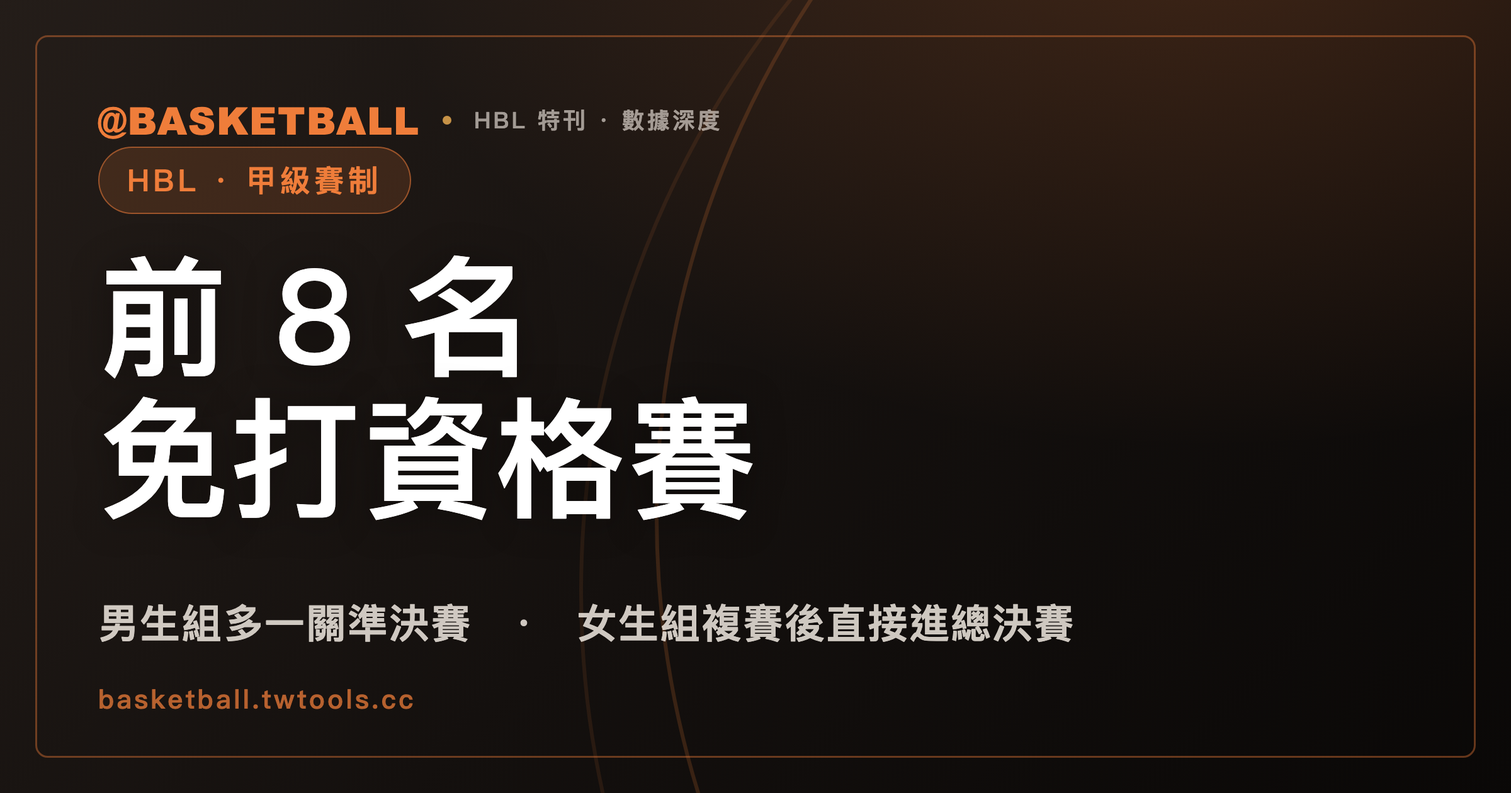
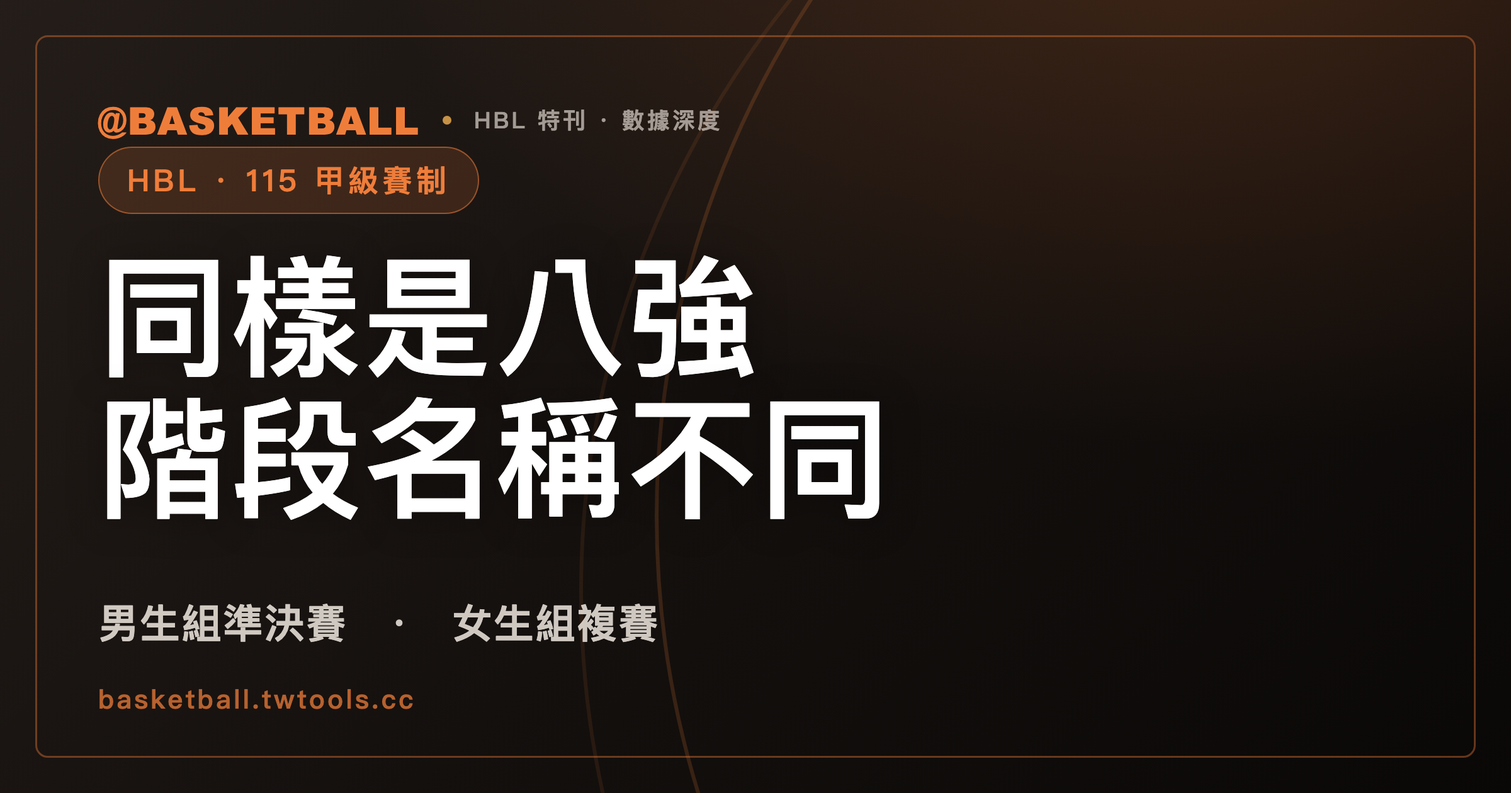
改寫 HBL 首批三篇：115 資格賽與男女晉級路徑 (#104)

Changed region(s): [[0.0625, 0.3095, 0.5938, 0.65], [0.125, 0.7429, 0.7188, 0.8048], [0.1562, 0.1857, 0.3438, 0.2786]]

diff --git a/scripts/gen-basketball-cover.py b/scripts/gen-basketball-cover.py
@@ -43,12 +43,12 @@ COVERS = [
     ("taiwan-hoops-two-leagues", "台灣職籃 · 並立格局",
      "為什麼有<br>兩個聯盟",
      "TPBL 7 隊 × PLG 4 隊　·　合併破局始末"),
-    ("hbl-league-guide", "HBL · 完全指南",
-     "高中籃球<br>完全指南",
-     "男 35 隊 · 女 15 隊　·　總決賽 3 月 13 日至 14 日"),
-    ("hbl-115-qualifier-schedule-guide", "HBL · 115 學年度賽程",
-     "資格賽<br>10 月 27 日開打",
-     "中原、健行開打　·　總決賽 3 月 13 日至 14 日小巨蛋"),
+    ("hbl-league-guide", "HBL · 115 學年度指南",
+     "資格賽在桃園<br>四強進小巨蛋",
+     "115 學年度　·　男、女生組晉級路徑不同"),
+    ("hbl-115-qualifier-schedule-guide", "HBL · 115 男生組資格賽",
+     "男生組第一<br>仍要闖關",
+     "男生組 27 隊爭 8 席　·　女生組取 4 隊晉級"),
     ("nba-2025-26-season-review", "2025-26 · 賽季回顧",
      "尼克<br>53 年再奪冠",
      "總冠軍賽 4:1 勝馬刺　·　東西區終局全紀錄"),
@@ -123,9 +123,9 @@ COVERS = [
     ("read-standings-basics", "NBA · 戰績表",
      "兩隊先比對戰<br>三隊先比冠軍",
      "同勝率才進比序　·　GB 不在清單裡"),
-    ("hbl-format-basics", "HBL · 甲級賽制",
-     "前 8 名<br>免打資格賽",
-     "男生組多一關準決賽　·　女生組複賽後直接進總決賽"),
+    ("hbl-format-basics", "HBL · 115 甲級賽制",
+     "同樣是八強<br>階段名稱不同",
+     "男生組準決賽　·　女生組複賽"),
     ("hbl-rules-vs-fiba", "HBL · 規則體系比較",
      "乙級打<br>8 分鐘制",
      "FIBA 10 分鐘、NBA 12 分鐘　·　依 ISF 規則調整"),

diff --git a/articles/hbl-115-qualifier-schedule-guide/index.md b/articles/hbl-115-qualifier-schedule-guide/index.md
@@ -4,130 +4,104 @@ competition: hbl
 topic: hbl
 type: "feature"
 date: "2026-10-13"
-title: "HBL 115 學年度行事曆預定：資格賽 10/27 起在中原、健行，八強跨農曆年，總決賽 3/13–14 小巨蛋"
-subtitle: "男 35 隊、女 15 隊報名都超過規程上限，兩組均設資格賽、由上學年度未達前 8 名者參加；依規程與 10 月 13 日報名名單推算，男 27 隊搶 8 席、女 7 隊搶 4 席。日期為官網行事曆預定，資格賽天數視報名後調整，籤表 10 月 13 日未公告。"
-lede: "依高中體總官網行事曆預定，HBL 115 學年度甲級資格賽 2026 年 10 月 27 日至 11 月 3 日在中原大學體育館與健行科技大學體育館舉行，實際比賽天數視報名後調整；男女兩組均設資格賽，由上學年度未達甲級前 8 名的隊伍參加，上學年度前 8 名直接進預賽。"
+title: "HBL 115 資格賽：男生組 27 隊搶 8 席，分組第一還沒過關"
+subtitle: "正式賽期女生組為 10 月 27 至 30 日，男生組為 27 至 31 日。男生組第一輪分組第一只是第二輪種子；女生組分組第一直接晉級預賽，另外兩席由交叉外卡決定。"
+lede: "115 學年度 HBL 男生組資格賽有 27 隊爭 8 席預賽資格，第一輪分組第一仍須通過第二輪；女生組則是 7 隊爭 4 席，第一輪兩組第一名直接晉級。正式秩序冊排定女生組 2026 年 10 月 30 日收官，男生組 31 日收官，不能把目前官方系統只列到的第一輪當成完整賽程。"
 topic_ref: "manual"
 ---
 
-# HBL 115 學年度行事曆預定：資格賽 10/27 起在中原、健行，八強跨農曆年，總決賽 3/13–14 小巨蛋
+# HBL 115 資格賽：男生組 27 隊搶 8 席，分組第一還沒過關
 
 **HBL・115 學年度｜資格賽・行事曆預定・晉級路徑**
 
-115 學年度 HBL 甲級男生組有 35 隊報名，規程把男生組的參賽隊數限在 16 隊；女生組報名 15 隊，上限是 12 隊。本文依據 115 學年度高級中等學校籃球聯賽競賽規程（運動部 2026 年 10 月 7 日備查）、中華民國高級中等學校體育總會（高中體總）官網行事曆，以及 hbl.com.tw 官方賽事系統的報名名單，後兩者都在 2026 年 10 月 13 日讀取。行事曆是官方預定，不是賽程表；日期與場地以高中體總後續公告為準。
+> 更新：2026 年 10 月 28 日（台北時間）。分組與日期依正式抽籤結果及 10 月 27 日版秩序冊，後續異動以高中體總公告為準。
 
-讀完之後，你可以判斷自己關心的學校依推算從資格賽還是預賽出發，也可以把行事曆預定的日期抄進自己的行事曆，等 10 月 15 日抽籤會議後回來對照。
+資格賽拿到分組第一，能不能收拾行李準備預賽？115 學年度 HBL 的答案要分男女生組：男生組第一仍要闖關，女生組第一已取得門票。
 
-## 男女兩組報名都超過規程上限，兩組均設資格賽
+兩組都先打分組循環，後面接的關卡卻不同。男生組要把 27 隊縮到 8 隊，女生組則從 7 隊選出 4 隊，完整分組如下。
 
-規程第 7 條寫：甲級聯賽參賽隊數以男生組 16 隊、女生組 12 隊為限，報名隊數超出時舉行資格賽。甲級報名在 2026 年 10 月 12 日截止（規程第 10 條），依 hbl.com.tw 官方賽事系統 10 月 13 日的報名名單，兩組的報名隊數都超過上限，所以兩組均設資格賽。
+## 女生組兩張門票先給分組第一，另外兩張留給外卡
 
-## 參加資格賽的是上學年度未達甲級前 8 名成績的隊伍
+女生組 A 組有 3 隊、B 組有 4 隊。第一輪各組第一名直接晉級預賽；各組第二、第三名則再打交叉外卡。
 
-資格賽辦在兩組，不代表所有報名的隊伍都要打。規程第 12 條一（一）寫得很具體：男生組報名超過 16 隊時，參加資格賽的是「上學年度未達甲級前 8 名成績者」；女生組報名超過 12 隊時，條件的寫法相同。預賽的參賽者則由上學年度前 8 名與資格賽錄取的隊伍組成，男生組合計 16 隊，女生組合計 12 隊。
-
-「上學年度前 8 名」是哪幾隊？以下依規程與 10 月 13 日報名名單推算，實際以 10 月 15 日抽籤會議後的官方公告為準。114 學年度打進男生組準決賽與女生組複賽的各 8 隊，都直接進預賽。這 16 隊來自 114 學年度的官方賽果資料，每一隊都在 115 學年度的報名名單內：
-
-| 男生組（114 學年度準決賽 8 隊） | 女生組（114 學年度複賽 8 隊） |
+| 女生組 | 第一輪隊伍 |
 |---|---|
-| 光復高中 | 北一女中 |
-| 南山高中 | 南山高中 |
-| 南湖高中 | 永仁高中 |
-| 彰縣成功高中 | 永平高中 |
-| 東山高中 | 淡水商工 |
-| 東泰高中 | 苗栗高商 |
-| 松山高中 | 金甌女中 |
-| 能仁家商 | 陽明高中 |
+| A | 忠明高中、新竹高商、輔仁中學 |
+| B | 南湖高中、普門中學、中信高中、莊敬高職 |
 
-## 資格賽行事曆預定 10 月 27 日至 11 月 3 日，在中原大學與健行科技大學體育館
+外卡有兩場：A 組第二對 B 組第三，A 組第三對 B 組第二。每場勝隊晉級，所以兩個分組第一加上兩個外卡勝隊，共有 4 隊進預賽。
 
-高中體總官網行事曆預定，115 學年度甲級資格賽從 2026 年 10 月 27 日（星期二）到 11 月 3 日（星期二），地點是中原大學體育館與健行科技大學體育館。行事曆在這個條目上自註「實際比賽天數，視開放報名後調整之」，所以 8 個日曆日是預定範圍，不是逐日賽程。
+依秩序冊，第一輪排在 10 月 27 至 29 日，外卡則在 10 月 30 日，兩場分別於下午 4 點 40 分、6 點開打，全部在健行科技大學。時間均為台北時間。
 
-資格賽怎麼打，規程第 12 條一（一）寫的是比賽制度「依實際報名情況訂定」。錄取名次則寫「以取得男生組 8 名、女生組 4 名晉級預賽為原則」。參賽數同樣依規程與 10 月 13 日報名名單推算，實際以 10 月 15 日抽籤會議後的官方公告為準。男生組是 35 減 8 等於 27 隊，爭 8 個席位；女生組是 15 減 8 等於 7 隊，爭 4 個席位。8 席與 4 席在規程裡是「為原則」，不是定數。
+因此，女生組的分組第一已過資格賽這一關；第二、第三名還有外卡機會。晉級預賽之後，資格賽出線的 4 隊還要走本屆女生預賽的另一條路，不能直接算作八強。
 
-依規程與 10 月 13 日報名名單推算，實際以 10 月 15 日抽籤會議後的官方公告為準，從資格賽出發的是報名名單扣掉上表同組 8 隊後的隊伍（校名照官方賽事系統報名名單的全名）：
+## 男生組分組第一是種子，10 月 31 日仍要贏決定戰
 
-- 男生組 27 隊：中信國際學校財團法人新北市私立中信高級中等學校、嘉義市私立東吳高級工業家事職業學校、國立基隆高級商工職業學校、國立宜蘭高級中學、國立屏東高級中學、國立臺北科技大學附屬桃園農工高級中等學校、國立臺東高級中學、國立馬祖高級中學、屏東縣私立民生高級家事商業職業學校、新北市私立中華商業海事職業學校、新北市私立莊敬高級工業家事職業學校、新北市立三重高級商工職業學校、新北市立泰山高級中學、新北市立錦和高級中學、桃園市立新屋高級中等學校、永平學校財團法人桃園市私立永平工商高級中等學校、治平學校財團法人桃園市治平高級中等學校、臺中市立后綜高級中學、臺中市青年高級中學、臺北市私立新民高級中等學校、臺北市私立滬江高級中學、臺北市立和平高級中學、臺北市立成功高級中學、花蓮縣私立海星高級中學、花蓮縣立體育高級中等學校、高雄市私立高苑高級工商職業學校、高雄市立三民高級家事商業職業學校。
-- 女生組 7 隊：中信國際學校財團法人新北市私立中信高級中等學校、佛光山學校財團法人高雄市普門高級中學、嘉義市私立輔仁高級中學、國立新竹高級商業職業學校、新北市私立莊敬高級工業家事職業學校、臺中市立忠明高級中學、臺北市立南湖高級中學。
+男生組 27 隊分成 8 組，第一輪每組取前 3 名進第二輪，共 24 隊；第二輪才決定哪 8 隊晉級預賽。
 
-114 學年度提供了一組對照。官方賽果資料顯示，114 學年度資格賽男生組 29 隊、女生組 8 隊參賽，正好是當年報名的 37 隊、16 隊各減 8；比賽日是 2025 年 10 月 13 日至 17 日共 5 天，男生組在中原大學與健行科技大學兩座場館，女生組在健行科技大學。
+| 男生組 | 第一輪隊伍 |
+|---|---|
+| A | 錦和高中、和平高中、屏東高中 |
+| B | 高苑工商、青年高中、治平高中 |
+| C | 三重商工、三民家商、新民高中 |
+| D | 中華商海、馬祖高中、滬江高中 |
+| E | 永平工商、新屋高中、北科附工 |
+| F | 宜蘭高中、基隆商工、中信高中、莊敬高職 |
+| G | 花蓮體中、民生家商、海星高中、泰山高中 |
+| H | 北市成功、東吳高職、后綜高中、臺東高中 |
 
-hbl.com.tw 官方站 2026 年 9 月 18 日至 28 日的賽事新聞，提過三隊的資格賽經歷：馬祖高中在 114 學年度從資格賽出發，今年依舊從資格賽出發；永平工商在 113、114 學年度連續兩年通過資格賽，進入男生組 16 隊預賽；北科附工在 114 學年度資格賽收官日的「晉級決定戰」中飲恨。「晉級決定戰」是官方站賽事新聞對部分隊伍在資格賽收官日處境的說法。
+第一輪各組第一名直接列為第二輪種子。各組第二、第三名另抽籤排入對戰位置，10 月 30 日先打 8 場，勝隊在 31 日再與種子隊打晉級決定戰。31 日的 8 場勝隊，才是拿到預賽門票的 8 隊。
 
-## 抽籤會議在 10 月 15 日，籤表與逐日場次截至 10 月 13 日尚未公告
+A 至 E 組每組只有 3 隊，取前 3 名代表組內隊伍都能進第二輪。但循環賽仍在決定誰成為種子、誰還要先打 30 日那一場；進第二輪與晉級預賽是兩件事。
 
-高中體總 2026 年 9 月 23 日公告了「115學年度國民中學籃球聯賽及高級中等學校籃球甲級聯賽資格賽、預賽抽籤會議」：高級中等學校籃球聯賽的場次在 2026 年 10 月 15 日（星期四）上午 10 點，地點是體育聯合辦公大樓 3 樓大禮堂；國中組在 10 月 12 日。公告寫明會中說明賽事賽制與賽程抽籤相關事項。
+男生組第一輪排在 10 月 27 至 29 日，完整資格賽到 31 日；本屆男生組使用中原大學與健行科技大學兩座場館，各場地點須對照正式賽程表。
 
-這是會議日，不是資格賽的開打日。截至 2026 年 10 月 13 日，官方尚未公告高中組資格賽的籤表、分組與逐日場次。hbl.com.tw 賽程系統裡 115 學年度的甲級、乙級四個賽事，也還沒有任何階段。10 月 15 日抽籤會議之後，請以高中體總公告為準。
+## 官網列到 10 月 29 日，資格賽還沒有打完
 
-## 行事曆預定的六段賽程，從資格賽到總決賽用到 7 座場館
+截至本次查核，HBL 官方賽事系統已建立男生組第一輪 33 場、女生組第一輪 9 場，日期都在 10 月 27 至 29 日。這批場次沒有涵蓋女生組 30 日外卡，以及男生組 30、31 日的第二輪。
 
-規程第 9 條只寫各階段場地「由本會實地勘查後決定之」，實際場館要看官網行事曆。對照前面兩份推算名單，就能大致判斷關心的學校從哪一段出發，再沿下表往後查行事曆預定的日期與場地；最後一欄是 114 學年度的實際日期。
+[HBL 官方賽程系統](https://hbl.com.tw/page/76)可查已建立的場次與賽果。若找不到尚未確定的淘汰賽對戰，仍須對照 [高中體總正式秩序冊](https://www.ctssf.org.tw/files/message/2463/115學年度高級中等學校籃球甲級聯賽資格賽秩序冊1027.pdf)冊頁 15 至 17。紙本已列出籤位與時間，對戰學校則要等前一輪結果或抽籤決定。
 
-| 階段 | 規程隊數與晉級 | 行事曆預定日期 | 行事曆預定場地 | 114 學年度實際日期 |
-|---|---|---|---|---|
-| 資格賽 | 報名超額時舉行；以男生組 8 名、女生組 4 名晉級預賽為原則 | 2026-10-27 至 11-03（實際比賽天數視開放報名後調整） | 中原大學體育館、健行科技大學體育館 | 2025-10-13 至 10-17 |
-| 預賽 | 男生組 16 隊取 12 隊；女生組 12 隊取 8 隊 | 男生組 2026-11-20 至 11-23；女生組第一階段 2026-11-24 至 11-26 | 高雄市鳳山體育館 | 男生組 2025-11-29 至 12-02；女生組 2025-12-18 至 12-24 |
-| 男生組複賽、女生組預賽第二階段 | 男生組 12 隊取 8 隊；女生組預賽取 8 隊 | 男生組複賽 2026-12-14 至 12-20；女生組第二階段 2026-12-19 至 12-26 | 新竹縣立體育館 | 男生組複賽 2025-12-23 至 12-29 |
-| 女生組複賽暨男生組準決賽，第一階段 | 女生組複賽 8 隊取 4 隊；男生組準決賽 8 隊取 4 隊 | 2027-01-12 至 01-17 | 新北市板橋體育館 | 2026-02-05 至 02-12（新莊體育館、板橋體育館） |
-| 女生組複賽暨男生組準決賽，第二階段 | 同上 | 2027-02-18 至 02-21 | 國立臺灣大學綜合體育館 3 樓 | 同上列 |
-| 總決賽 | 男女各 4 隊，淘汰排名賽 | 2027-03-13 至 03-14 | 臺北小巨蛋 | 2026-03-21 至 03-22 |
+這也改變了看分組成績的方式：女生組先找各組第一，便知道兩個直接晉級席次；男生組則要繼續追到 31 日決定戰，不能把分組第一先列進預賽名單。循環賽同分時的判定，另見 [HBL 積分與同分排名](/articles/hbl-standings-tiebreak-basics/)，該篇目前仍以 114 學年度規程為版本。
 
-表裡的名額來自規程第 12 條。準決賽的條文只有男生組；女生組複賽 8 隊單循環，1 至 4 名直接進總決賽。五個階段在 114 學年度規程裡怎麼銜接，見 [HBL 甲級賽制五道關卡](/articles/hbl-format-basics/)。循環賽的名次積分與同分判定，114 學年度規程的寫法見 [HBL 分組循環賽積分相等，名次先看對戰勝負](/articles/hbl-standings-tiebreak-basics/)。
+## 上學年度前八名等在預賽，資格賽落選不能改報乙級
 
-和 114 學年度相比，行事曆預定的男生組預賽早 9 天開始，總決賽提前 8 天；各階段的隊數（16、12、8、4）與 114 學年度相同。
+115 學年度規程以男生組 16 隊、女生組 12 隊為甲級上限；報名超額時，上學年度未達甲級前八名的隊伍參加資格賽。上學年度前八名直接進預賽，本屆名單已列在官方賽制圖中。
 
-## 八強賽跨農曆年、第二階段改到台大：官方站新聞轉述的學測衝突與場館整修
+| 直接進預賽的男生組 8 隊 | 直接進預賽的女生組 8 隊 |
+|---|---|
+| 松山高中、南湖高中、東泰高中、能仁家商 | 陽明高中、北一女中、永仁高中、南山高中 |
+| 彰縣成功、南山高中、光復高中、東山高中 | 淡水商工、永平高中、金甌女中、苗栗高商 |
 
-hbl.com.tw 官方站 2026 年 10 月 1 日刊出的賽事新聞所稱的八強戰，就是行事曆上「女生組複賽暨男生組準決賽」的兩個階段：依行事曆預定，第一階段在板橋體育館，過完農曆年，第二階段到台大綜合體育館決定四強席位。
+資格賽落選也不能在同一學年度改報乙級，這是規程第 7 條明列的限制。
 
-同一篇新聞轉述高中體總秘書長朱彩鳳的說法，講的是兩件事。第一件是跨年：原本設定的八強時間與大學學測衝突，所有時間與場地都得「砍掉重練」，才出現跨年。第二件是場館：時間改定後，原本只打算在板橋體育館進行，但場館要整修，為了避免球員在有油漆味的場館比賽，才轉往台大（依行事曆，第二階段在台大）。
 
-## 決定八強席位的 12 月階段，行事曆預定首度移到新竹縣立體育館
-
-hbl.com.tw 官方站 2026 年 9 月 17 日的賽事新聞寫到，男、女各 12 隊爭奪八強門票的階段，今年底將在新竹縣立體育館舉行；前兩個學年度（113、114）在屏東，更早熟悉的場地是高雄。官方站 10 月 1 日的賽事新聞也說，這個階段將首度造訪新竹縣立體育館。
-
-對照規程的階段名稱，這個階段分屬兩組的不同關卡：男生組是複賽，女生組是預賽第二階段，兩組都是 12 隊取 8 隊。兩組在新竹縣立體育館先後登場，12 月 19 日、20 日兩天日期重疊。
-
-## 轉播：官方公告列緯來電視網與愛爾達體育家族，Hami Video 續播與否未見公告
-
-高中體總 2026 年 10 月 7 日張貼的開賽記者會公告寫，115 學年度四大聯賽將攜手緯來電視網、愛爾達體育家族提供賽事轉播，並註明「各項聯賽詳細轉播資訊請參閱本會官網各階段公告」。緯來電視網與高中體總另在 2026 年 7 月 30 日完成 115 至 118 學年度的合作簽約（聯合新聞網報導），由緯來體育家族及緯來電視網 APP 提供電視與網路轉播。
-
-114 學年度的新媒體轉播是中華電信 Hami Video 的 HBLTV；115 學年度的官方公告沒有列出 Hami Video，是否續播截至 2026 年 10 月 13 日未見公告。
-
-## 衛冕軍松山高中與陽明高中，依推算都從預賽出發
-
-高中體總的開賽記者會公告回顧上學年度：HBL 松山高中男籃完成二連霸，陽明高中女籃拿下隊史首冠。114 學年度冠軍戰在 2026 年 3 月 22 日舉行，男生組松山高中以 87 比 71 擊敗南湖高中，女生組陽明高中以 61 比 53 擊敗北一女中。多家媒體報導松山高中今年挑戰三連霸。
-
-兩隊都在前文推算直接進預賽的名單裡。114 學年度的戰報與歷屆冠軍榜，見 [HBL 甲級聯賽指南](/articles/hbl-league-guide/)。
+女生組的八強稱「複賽」，男生組稱「準決賽」，晉級銜接詳見 [HBL 甲級賽制](/articles/hbl-format-basics/)；上學年度結果與歷屆冠軍見 [HBL 聯賽指南](/articles/hbl-league-guide/)。預賽門票到手後，兩組仍各有不同的關卡要過。
 
 ## 常見問題
 
 ### 115 學年度 HBL 甲級資格賽什麼時候開打？
 
-依高中體總官網行事曆預定，115 學年度甲級資格賽從 2026 年 10 月 27 日到 11 月 3 日，在中原大學體育館與健行科技大學體育館舉行，實際天數視報名後調整。見「資格賽行事曆預定 10 月 27 日至 11 月 3 日」一節。
+2026 年 10 月 27 日開打。依 10 月 27 日版正式秩序冊，女生組在健行科技大學打到 30 日；男生組使用健行科技大學與中原大學，打到 31 日。
 
 ### 115 學年度哪些學校要打甲級資格賽？
 
-依 115 學年度競賽規程第 12 條，資格賽由「上學年度未達甲級前 8 名成績者」參加，男生組、女生組各自在報名超過 16 隊、12 隊時舉行。兩組均設資格賽，不是所有報名的隊伍都要打；依推算直接進預賽的名單與從資格賽出發的名單，分別見「參加資格賽的是上學年度未達甲級前 8 名成績的隊伍」與「資格賽行事曆預定 10 月 27 日至 11 月 3 日」兩節。
+官方籤表列男生組 27 隊、女生組 7 隊，完整分組見上方兩張表。上學年度甲級前八名直接進預賽，不在資格賽名單內。
 
 ### 115 學年度 HBL 甲級女生組也要打準決賽嗎？
 
-依 115 學年度規程第 12 條，準決賽的條文只有男生組，8 隊單循環，1 至 4 名進總決賽；女生組複賽 8 隊單循環，1 至 4 名直接進總決賽。行事曆把「女生組複賽暨男生組準決賽」合併成一個條目，兩組的日期與場地相同。見「行事曆預定的六段賽程」一節。
+女生組八強階段叫複賽，取前四進總決賽；男生組八強階段才叫準決賽。兩組在行事曆上合列比賽，但階段名稱不同。
 
 ### 115 學年度 HBL 甲級總決賽在哪裡？
 
-依高中體總官網行事曆預定，115 學年度甲級總決賽在 2027 年 3 月 13 日（星期六）與 14 日（星期日），於臺北小巨蛋舉行；規程寫總決賽男女各 4 隊，採淘汰排名賽。114 學年度總決賽是 2026 年 3 月 21 至 22 日，同在臺北小巨蛋。
+正式秩序冊排在 2027 年 3 月 13 至 14 日、臺北小巨蛋，由男女生組各四隊打淘汰排名賽。後續異動以官方公告為準。
 
 ### 115 學年度甲級資格賽的籤表公布了嗎？
 
-截至 2026 年 10 月 13 日，官方尚未公告高中組資格賽的籤表、分組與逐日場次。高中組的抽籤會議是 2026 年 10 月 15 日（星期四）上午 10 點；會議之後，請以高中體總公告為準。見「抽籤會議在 10 月 15 日」一節。
+已公布。高中體總已提供男女資格賽分組、各階段賽制圖及正式秩序冊；紙本涵蓋第一輪之後的外卡、第二輪籤位與時間，不能只用官方系統目前已建立的第一輪場次判斷全賽期。
 
 ## 資料來源
 
-- 115 學年度高級中等學校籃球聯賽競賽規程（運動部 2026 年 10 月 7 日備查）：第 7 條、第 9 條、第 10 條、第 12 條相關條文，取自高中體總備查版與 [hbl.com.tw 競賽規程頁](https://hbl.com.tw/page/81)，2026 年 10 月 13 日讀取。
-- [中華民國高級中等學校體育總會官網](https://www.ctssf.org.tw/)行事曆（2026 年 10 月 13 日讀取）：2026 年 10 月至 2027 年 3 月的甲級籃球條目。
-- [hbl.com.tw 官方賽事系統](https://hbl.com.tw/page/76)（2026 年 10 月 13 日）：115 學年度報名名單、114 學年度各階段賽果資料。
-- 高中體總公告：[「115學年度國民中學籃球聯賽及高級中等學校籃球甲級聯賽資格賽、預賽抽籤會議」](https://www.ctssf.org.tw/messages/message.html?id=Ed-NBAoLy3RqhTOMpnfkh)（2026 年 9 月 23 日）、[「115學年度中等學校學生運動聯賽開賽記者會」](https://www.ctssf.org.tw/messages/message.html?id=BeufDISI7xR47VwSQ8hDb)（2026 年 10 月 7 日）。
-- [hbl.com.tw 賽事新聞](https://hbl.com.tw/page/74)：2026 年 9 月 17 日、9 月 18 日、9 月 22 日、9 月 28 日、10 月 1 日（署名 HJ Sports／孫傳賢）。
-- 聯合新聞網，2026 年 7 月 30 日：緯來電視網與高中體總簽約報導；NOWnews、自由時報、緯來新聞網，2026 年 10 月 6 日：開賽記者會報導。
+- 高中體總：[115 學年度資格賽抽籤結果與各階段賽制圖](https://www.ctssf.org.tw/messages/message.html?id=6VtHRBe5-RItOFZpOieLk)，附件頁 1、5 至 7。
+- 高中體總：[資格賽秩序冊（10 月 27 日版 PDF）](https://www.ctssf.org.tw/files/message/2463/115學年度高級中等學校籃球甲級聯賽資格賽秩序冊1027.pdf)，冊頁 02、15 至 17。
+- 高中體總：[115 學年度競賽規程（備查版 PDF）](https://www.ctssf.org.tw/files/message/2467/115學年度高級中等學校籃球聯賽競賽規程-備查版.pdf)，第 7、12 條；[HBL 官方賽事系統](https://hbl.com.tw/page/76)已建立的第一輪場次。以上來源於 2026 年 10 月 28 日核對。

diff --git a/articles/hbl-format-basics/index.md b/articles/hbl-format-basics/index.md
@@ -4,89 +4,87 @@ competition: hbl
 topic: hbl
 type: "feature"
 date: "2026-09-27"
-title: "男生組多一關準決賽，女生組沒有：HBL 甲級聯賽五道關卡不是男女共用一套賽制"
-subtitle: "以 114 學年度規程逐條拆解資格賽、預賽、複賽、準決賽、總決賽怎麼銜接：誰能跳過資格賽、預賽與複賽的名額怎麼湊出來，以及男生組為什麼比女生組多打一輪準決賽。"
-lede: "HBL 甲級聯賽的資格賽、預賽、複賽、準決賽、總決賽不是套同一套模板跑五輪淘汰賽，而是 114 學年度規程寫死的差異化路徑：上學年度甲級戰績前 8 名的球隊可以跳過資格賽，男生組複賽打完還要再過一關準決賽，女生組複賽打完就已經站上總決賽名單。"
+title: "HBL 八強為什麼有兩個名字？男生組準決賽、女生組複賽差在哪"
+subtitle: "依 115 學年度規程，男生組預賽 16 隊、女生組 12 隊，兩條路到八強才都是單循環取四強。女生預賽另把上季前八名與資格賽晉級隊分組，單循環、雙循環與外卡各有門檻。"
+lede: "HBL 同樣是八強，男生組叫準決賽，女生組叫複賽。依 115 學年度規程，男生組從 16 隊預賽，經 12 隊複賽縮到八強；女生組從 12 隊預賽直接取八強。兩組的八強都打單循環，前四名才進總決賽。"
 topic_ref: "manual"
 ---
 
-# 男生組多一關準決賽，女生組沒有：HBL 甲級聯賽五道關卡不是男女共用一套賽制
+# HBL 八強為什麼有兩個名字？男生組準決賽、女生組複賽差在哪
 
 **新手村｜HBL・甲級賽制五道關卡**
 
-第一次認真看 HBL，賽程表上「資格賽」「預賽」「複賽」「準決賽」「總決賽」五個名詞一字排開，很容易以為這是同一套淘汰賽制度分五輪打完，每一關都是「贏的晉級、輸的出局」的固定模板。但攤開 114 學年度高級中等學校籃球聯賽競賽規程，這五道關卡各自有各自的參賽條件與名額規則，男生組與女生組走的也不是同一條路：有些隊伍甚至完全不用打資格賽，男生組要多打一輪準決賽，女生組則是複賽打完就直接進入總決賽。這篇文章逐關拆開這五道關卡的規則，讀完之後，你應該能自己判斷一支球隊在什麼情況下要打資格賽、預賽與複賽的名額是怎麼湊出來的，以及男女生組的晉級路徑差在哪裡。
+> 更新：2026 年 10 月 28 日（台北時間）。本文改依 115 學年度規程與正式賽制圖，包含本屆女生預賽的分組及外卡方式。
 
-## 甲級聯賽不是人人能報名就打：報名隊數超過上限才辦資格賽
+打開 HBL 賽程，會看到「女生組複賽暨男生組準決賽」。兩組明明在同一段時間爭四強，為什麼一邊叫複賽，另一邊卻已經叫準決賽？
 
-HBL 甲級聯賽對參賽隊數設有上限。114 學年度規程規定，甲級聯賽參賽隊數以男生組 16 隊、女生組 12 隊為限；報名隊數如果超出這個上限，聯賽才會另外舉行資格賽，用來篩出可以進預賽的隊伍。換句話說，資格賽不是每個學年度固定存在、人人都要打的一關，而是「報名的學校太多、超過名額上限」時才會啟動的篩選賽。
+往前看，兩組預賽隊數不同，走到八強的階段也不同。男生組先打 16 強，再過 12 強；女生組的預賽就是 12 隊，下一關已經是八強。同樣是八強，階段名稱不同，不能只看「複賽」兩個字就判斷還剩多少隊。
 
-資格賽這一關還有一個容易被忽略的條件：規程明文寫著資格賽階段參賽學校要自費參加，聯賽不予補助。這跟預賽、複賽、準決賽、總決賽這幾關的待遇不同，也是為什麼資格賽常被球隊視為「先過了這關才算真正拿到甲級聯賽的門票」——打資格賽本身，已經是一筆額外的成本。
+## 男生組多一關，女生組預賽後就是八強
 
-## 上學年度前 8 名可以跳過資格賽，直接晉級預賽
+依 115 學年度規程，男女生組的甲級路徑如下。單循環是同階段參賽隊伍彼此各交手一次；分組單循環則在各自組內打。
 
-如果報名隊數真的超過上限，不代表所有超額報名的學校都要一起擠進資格賽。規程對誰要打資格賽，用的是同一個判定條件：男生組報名隊數超過 16 隊時，規程原文寫的是「上學年度未達甲級前 8 名成績者」要打資格賽；女生組報名隊數超過 12 隊時，條件同樣是「上學年度未達甲級前 8 名成績者」。反過來說，只要一支球隊在上一個學年度的甲級聯賽打進前 8 名，這學年度不論男生組或女生組，都可以跳過資格賽，直接拿到晉級預賽的資格。
-
-這一段規程從頭到尾只用這一個條件在判斷誰要打資格賽，沒有另外列出其他例外或排除條款——不是因為隊伍規模、地區或其他因素會影響到資格賽的參賽門檻，單純是「上學年度成績有沒有排進甲級前 8」這一件事在決定。至於資格賽本身怎麼打，規程也沒有把賽制寫死，只寫「依實際報名情況訂定」，也就是當學年度報名隊數多寡會影響資格賽採取什麼賽制，規程留了彈性，不是每學年度固定的賽制。錄取名次則有明確的原則：以取得男生組 8 名、女生組 4 名晉級預賽為原則。
-
-這裡有一個容易搞混的地方：打了資格賽卻沒有錄取的學校，並不能回頭改報名參加乙級聯賽補位。規程寫得很清楚，參加資格賽未取得晉級甲級聯賽參賽資格的學校，該學年度不得再進行報名參加乙級聯賽。這代表資格賽落選，不是「打不進甲級就降去打乙級」這麼簡單的一件事，甲級的資格賽跟乙級是兩條不相通的路——這一點後面總決賽那一節還會再提到。
-
-## 資格賽錄取的隊伍怎麼湊出預賽的 16 隊與 12 隊
-
-把前兩節的規則兜起來，就能算出預賽名額是怎麼湊出來的。114 學年度規程寫明，預賽男生組的參賽球隊，是「上學年度甲級聯賽前 8 名及資格賽錄取之隊伍，計 16 隊」，比賽制度採分組單循環制，錄取 12 隊晉級複賽；預賽女生組則是「上學年度甲級聯賽前 8 名及資格賽錄取之隊伍，計 12 隊」，比賽制度採分組單循環制，後擇優外卡制，錄取 8 隊晉級複賽。
-
-拆開來看，男生組預賽的 16 隊，原則上等於「上學年度前 8 名」加上「原則上錄取的 8 隊」；女生組預賽的 12 隊，原則上等於「上學年度前 8 名」加上「原則上錄取的 4 隊」。這個加法跟前一節資格賽的錄取名次原則（男生組錄取 8 名、女生組錄取 4 名晉級預賽）剛好對得上，也跟第一節提到的隊數上限（男生組 16 隊、女生組 12 隊）吻合。
-
-可以自己動手算一次，確認這條邏輯讀對了：假設某學年度男生組報名 22 隊，超過 16 隊的上限，其中 8 隊是上學年度甲級前 8 名，可以直接跳過資格賽晉級預賽；其餘 14 隊沒有這個資格，全部要打資格賽。資格賽依錄取名次原則錄取 8 隊，這 8 隊加上原本免打資格賽的 8 隊，預賽名單正好是 8 加 8 等於 16 隊，跟男生組預賽 16 隊的參賽規則對得上。這個假設情境不是任何一個學年度的真實報名數字，只是用來驗證這條加法規則。
-
-要注意的是，男生組預賽錄取 12 隊晉複賽、女生組預賽錄取 8 隊晉複賽，這兩個名額不是同一個比例：男生組是 16 進 12，女生組是 12 進 8。晉級門檻鬆緊不能直接拿男女生組互相比較，因為兩組從隊數上限到每一關的錄取名額，走的本來就是各自獨立的規則。
-
-## 複賽打完，女生組已經站上總決賽名單，男生組還要再打一關準決賽
-
-複賽是男女生組賽制真正分岔的地方。男生組複賽的參賽球隊是預賽優勝球隊，計 12 隊，比賽制度採分組單循環制，後擇優外卡制，錄取名次是錄取 8 隊晉級準決賽——複賽打完，男生組還要再打一關準決賽才能決定誰進總決賽。
-
-女生組複賽的參賽球隊是預賽優勝球隊，計 8 隊，比賽制度採單循環制（賽程由本會排定之），錄取名次直接寫著 1 至 4 名晉級總決賽、5 至 8 名依本階段競賽成績判定名次。女生組的規程從複賽這一段開始，不再出現「準決賽」這三個字——複賽打完，前 4 名已經確定是晉級總決賽的隊伍，中間不再插入準決賽這一關。
-
-| 關卡 | 男生組（114 學年度） | 女生組（114 學年度） |
+| 階段 | 男生組 | 女生組 |
 |---|---|---|
-| 複賽參賽隊數 | 12 隊（預賽優勝球隊） | 8 隊（預賽優勝球隊） |
-| 複賽比賽制度 | 分組單循環制，後擇優外卡制 | 單循環制（賽程由本會排定） |
-| 複賽錄取名次 | 錄取 8 隊晉級準決賽 | 1 至 4 名晉級總決賽 |
-| 複賽之後還有幾關 | 還有準決賽、總決賽兩關 | 只剩總決賽一關 |
+| 預賽 | 16 隊，分組單循環，取 12 隊 | 12 隊，按上季成績與資格賽出線身分分組，取 8 隊 |
+| 複賽 | 12 隊，分組單循環後打外卡，取 8 隊 | 8 隊單循環，取前 4 名 |
+| 準決賽 | 8 隊單循環，取前 4 名 | 沒有另設這個階段 |
+| 總決賽 | 4 隊，淘汰排名賽 | 4 隊，淘汰排名賽 |
 
-同樣要打進總決賽的四強，男生組隊伍得先在複賽錄取的 8 隊裡，再打贏準決賽這一關；女生組隊伍複賽打完，前 4 名已經是總決賽的參賽隊伍，不用再多打一輪。這也是為什麼看 HBL 賽程表時，男生組跟女生組的階段名稱雖然大部分相同，賽程長度卻不一樣。
+男生組預賽分成 4 組，每組前 3 名進複賽，合計 12 隊；複賽分成 2 組，各組前 3 名先晉級，各組第 4 至 6 名再打外卡，取另外 2 隊，共 8 隊進準決賽。女生組預賽打完只剩 8 隊，因此複賽已是爭四強的那一關。
 
-## 準決賽只設在男生組，規程沒寫為什麼
+循環賽和淘汰賽也要分開看。八強階段的單循環會累積多場成績，最後看排名取四強；不能因為名稱叫「準決賽」，就以為男生組八強只打一場、贏了便進冠軍戰。
 
-準決賽這一關，規程原文只有男生組的段落，沒有女生組的對應內容：參加球隊是「男生組複賽優勝球隊，計 8 隊」，比賽制度採單循環制（賽程由本會排定之），錄取名次是 1 至 4 名晉級總決賽、5 至 8 名依本階段競賽成績判定名次。這一段從標題到內容都只提男生組，女生組的賽制規則跳過這一關，直接從複賽銜接到總決賽。
+## 女生組 12 隊預賽，分成 8 隊與 4 隊兩種起點
 
-規程通篇只列出各關卡的參賽隊數、比賽制度與錄取名次，沒有附上任何說明文字解釋「為什麼男生組要多設一輪準決賽、女生組不用」。這代表能查到的官方文件裡，找不到規程自己給出的理由。如果要推測可能的原因，一個說得通的方向是男生組 16 隊的參賽規模比女生組 12 隊多，多一輪準決賽等於多一層篩選；但這只是根據隊數規模差異做的推論，規程本身沒有這樣寫，不能當成官方認定的理由來引用。
+115 學年度女生預賽，A 組是上學年度前八名，B 組是本屆資格賽晉級的 4 隊。兩組連循環次數都不同：A 組單循環，B 組雙循環，也就是 B 組每兩隊會交手兩次。
 
-## 總決賽由誰組成：資格賽落選也不能臨時改打乙級
+| 預賽分組 | 球隊來源 | 賽制 | 下一關 |
+|---|---|---|---|
+| A 組，8 隊 | 上學年度甲級前八名 | 單循環 | 前 6 名直接進複賽，第 7、8 名打外卡 |
+| B 組，4 隊 | 本屆資格賽晉級隊伍 | 雙循環 | 前 2 名打外卡 |
+| 外卡，4 隊 | A 組第 7、8 名，B 組第 1、2 名 | 單循環 | 取前 2 名進複賽 |
 
-總決賽的參賽球隊，規程用同一句話把男女生組的晉級來源寫在一起：「男生組準決賽、女生組複賽 1 至 4 名球隊，各 4 隊」，比賽制度是淘汰排名賽，1 至 4 名依競賽成績判定名次。這句話本身就把前面幾節的差異濃縮成一句規則：男生組的 4 隊來自準決賽的名次，女生組的 4 隊來自複賽的名次，兩組進總決賽的關卡數不一樣，但到了總決賽這一關，都是各出 4 隊、合計 8 隊上場。
+所以，女生組從資格賽出線，拿到的是 B 組預賽席次。接著要先在 B 組排進前二，再到外卡爭兩個複賽名額；上季前八名則先在 A 組爭六個直接晉級席次，排在後兩名的隊伍還有外卡機會。
 
-前面第二節提過，參加資格賽卻沒有取得晉級甲級聯賽資格的學校，該學年度不得再改報名參加乙級聯賽。這條規則放在這裡再強調一次，是因為它劃出了甲級跟乙級之間的界線：甲級聯賽的資格賽、預賽、複賽、準決賽、總決賽是同一套系統裡的五道關卡，而乙級聯賽另有以縣市預賽為起點的賽制，是完全不同的另一套系統，晉級邏輯跟甲級這五關不一樣。乙級的細節不在這篇文章的範圍內，想看縣市預賽跟分區複賽怎麼運作，可以參考站內另一篇文章。資格賽落選的學校如果想著「打不進甲級，改打乙級」，規程已經把這條路擋掉了——甲級的資格賽跟乙級之間，本來就沒有互通的機制。
+這裡的外卡是 4 隊單循環，不是兩場交叉淘汰賽。資格賽女生外卡採交叉對戰，到了預賽外卡，名稱相同、打法卻不同。
 
-看完這五道關卡，回頭檢查一次自己有沒有讀對：一支球隊要不要打資格賽，看的是上學年度甲級戰績有沒有進前 8 名；預賽的隊數怎麼湊出來，看的是「上學年度前 8 名」加「資格賽錄取隊伍」；複賽打完誰能直接進總決賽、誰還要再打一關，男女生組的規則不一樣；資格賽落選也不能臨時改報乙級。想看某個學年度實際打出來的名次與戰報，可以參考站內的 [HBL 完整指南](/articles/hbl-league-guide/)。
+## 上學年度前八名免打資格賽，其餘超額隊伍先爭預賽門票
+
+在預賽之前，還可能有資格賽。115 學年度規程的條件是：甲級報名超過男生組 16 隊、女生組 12 隊的上限時，才舉行資格賽；參加者是上學年度未達甲級前八名的隊伍。
+
+上學年度前八名因此可以直接進預賽。本屆正式籤表則列男生組 27 隊、女生組 7 隊打資格賽，取男生組 8 隊、女生組 4 隊，與原本的前八名湊成預賽隊數。
+
+
+規程第 7 條還有一個代價：資格賽落選、未取得甲級參賽資格的學校，同一學年度不能再改報乙級。乙級另有縣市預賽、分區複賽與全國決賽路徑，並不承接甲級資格賽的落選隊伍。
+
+## 四強總決賽改打淘汰排名賽，第一名對第四名
+
+男生組準決賽、女生組複賽都由 8 隊單循環取前 4 名；第 5 至 8 名依該階段成績判定。到了總決賽，兩組各由 4 隊改打淘汰排名賽。
+
+正式賽制圖排第 1 名對第 4 名、第 2 名對第 3 名。兩場勝隊爭冠、亞軍，敗隊爭季軍、殿軍。因此，看完八強排名時，既能知道哪些隊伍進四強，也能知道總決賽的對戰位置。
+
+本屆已公布的日期、上學年度名次與冠軍榜，見 [HBL 聯賽指南](/articles/hbl-league-guide/)。理解晉級路徑之後，「進複賽」這句話還要接著問是哪一組；男生組剩 12 隊，女生組已經只剩 8 隊。
 
 ## 常見問題
 
 ### 什麼樣的球隊要打資格賽？
 
-依 114 學年度規程，甲級聯賽參賽隊數以男生組 16 隊、女生組 12 隊為限，報名隊數超出上限時才舉行資格賽。要打資格賽的是「上學年度未達甲級前 8 名成績」的學校，男生組與女生組都是同一個判定條件；上學年度甲級前 8 名的球隊，不論男生組或女生組，都可以跳過資格賽直接晉級預賽。
+115 學年度規程規定，甲級報名超過男生組 16 隊、女生組 12 隊時，上學年度未達甲級前八名的隊伍打資格賽；前八名直接進預賽。資格賽具體打法依當學年度正式公告。
 
 ### 男生組跟女生組的晉級關卡一樣嗎？
 
-不完全一樣。114 學年度規程裡，男生組複賽優勝的 8 隊要先打準決賽，準決賽前 4 名才晉級總決賽；女生組複賽打完直接產生前 4 名，晉級總決賽，規程從複賽段落開始就沒有女生組的準決賽這一段。兩組要打進總決賽四強，男生組多過一關準決賽，女生組則是複賽打完就確定名單。
+不同。男生組從 16 隊預賽經 12 隊複賽、8 隊準決賽，再取四強；女生組從 12 隊預賽進 8 隊複賽，再取四強。115 女生預賽另分 A、B 組，打法見上表。
 
 ### 資格賽落選，可以改打乙級嗎？
 
-不行。114 學年度規程明文規定，參加資格賽未取得晉級甲級聯賽參賽資格的學校，該學年度不得再進行報名參加乙級聯賽。資格賽落選跟改報乙級聯賽是兩件不相通的事，這條規則對男生組、女生組都適用。
+不行。115 學年度規程第 7 條規定，資格賽未取得甲級參賽資格的學校，同學年度不得再報名乙級聯賽。
 
 ### 甲級跟乙級用的是同一套晉級系統嗎？
 
-不是。114 學年度規程裡，甲級走的是資格賽、預賽、複賽、準決賽（僅男生組）、總決賽這五道關卡；乙級則另有以縣市預賽為起點的賽制，是完全不同的另一套系統。乙級各關卡的細節不在本文範圍內。
+不是。甲級依上述資格賽及預賽後各階段晉級；乙級另走縣市預賽、分區複賽與全國決賽，甲級資格賽落選不會自動轉入乙級。
 
 ## 資料來源
 
-- 114 學年度高級中等學校籃球聯賽競賽規程（修正版）第 6 條、第 11 條（資格賽、預賽、複賽、準決賽、總決賽相關條文）：中華民國高級中等學校體育總會官網公告，2026 年 9 月 27 日取得：[hbl.com.tw/rule](https://hbl.com.tw/rule)。
+- 高中體總：[115 學年度競賽規程（備查版 PDF）](https://www.ctssf.org.tw/files/message/2467/115學年度高級中等學校籃球聯賽競賽規程-備查版.pdf)，第 7、12 條。
+- 高中體總：[115 學年度資格賽抽籤結果與各階段賽制圖](https://www.ctssf.org.tw/messages/message.html?id=6VtHRBe5-RItOFZpOieLk)，附件頁 1 至 10。本文於 2026 年 10 月 28 日依本屆正式資料更新，後續調整以官方公告為準。
